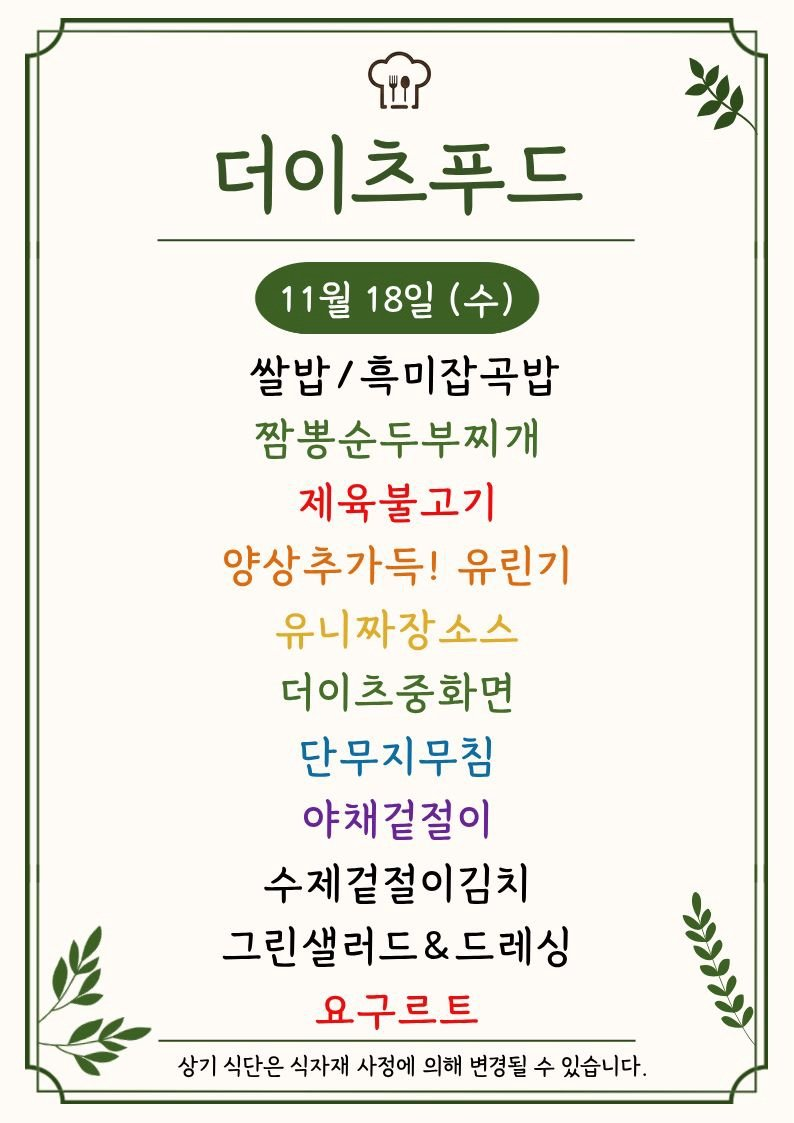
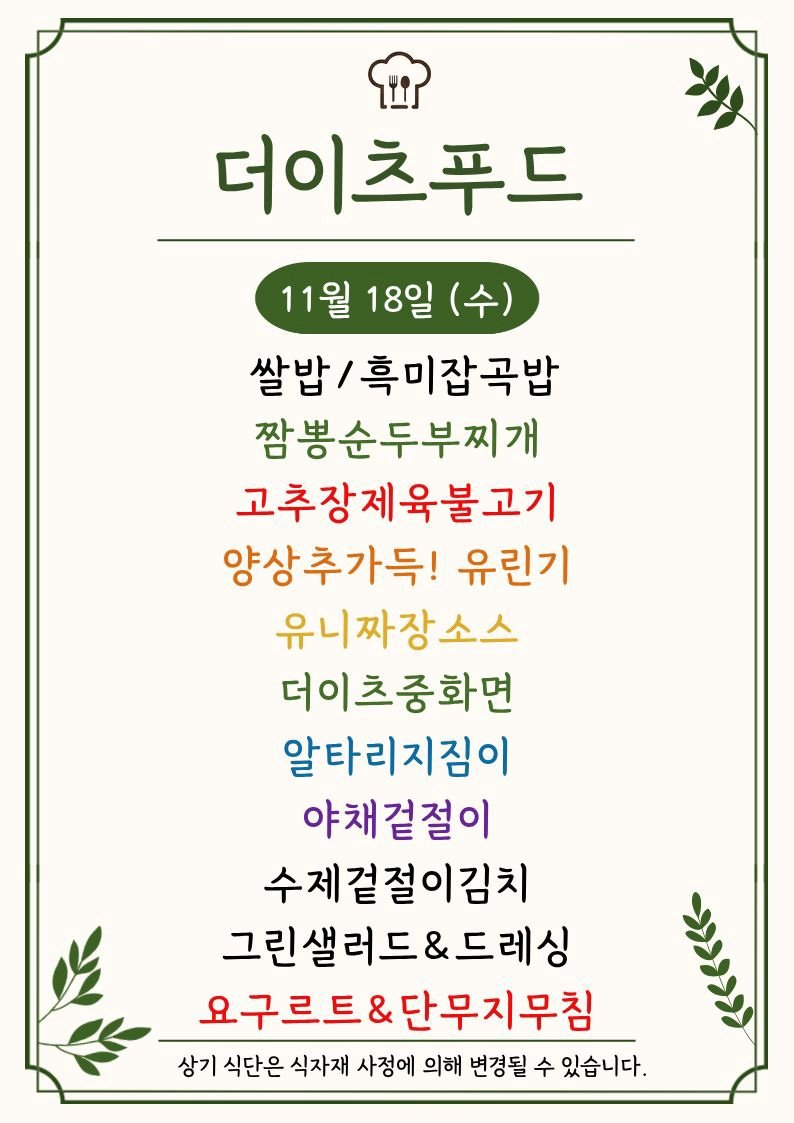
Update menu board assets

Changed region(s): [[0.2418, 0.8727, 0.7557, 0.935], [0.3023, 0.4052, 0.7254, 0.4675], [0.3627, 0.6545, 0.665, 0.7168]]

diff --git a/menu-today/index.html b/menu-today/index.html
@@ -209,7 +209,7 @@
 
     <section class="meta-bar">
       <div class="meta-card"><div class="meta-label">기준 날짜</div><div class="meta-value">2026년 11월 18일 수요일</div></div>
-      <div class="meta-card"><div class="meta-label">최종 가져온 시간</div><div class="meta-value">2026-11-18 10:19:48</div></div>
+      <div class="meta-card"><div class="meta-label">최종 가져온 시간</div><div class="meta-value">2026-11-18 10:40:22</div></div>
       <div class="meta-card"><div class="meta-label">확인 완료</div><div class="meta-value">9개 식당</div></div>
       <div class="meta-card"><div class="meta-label">준비중</div><div class="meta-value">3개 채널</div></div>
     </section>
@@ -255,7 +255,7 @@
             <div class="sub">디폴리스지식산업센터</div>
           </div>
         </div>
-        <div class="menu-inline-image"><img src="./images/dipolis.png" alt="디폴리스 구내식당 식단 이미지"></div><ul><li>순살 치킨까스 &amp; 돈까스 소스</li><li>HA 토마토 스파게티</li><li>구수한 누릉지 / 크루동 크림스프</li><li>코기 손만두찜 &amp; 간장</li><li>팽이 미소 장국</li><li>숙주나물 무침</li><li>양배추 야채 샐러드</li><li>배추겉절이</li><li>= 은 료 &#x27;</li><li>돈육 김치 두루 치기</li><li>출살 치킨까스 &amp; 돈까스 소스</li><li>치즈 토마토 스파게티</li></ul>
+        <div class="menu-inline-image"><img src="./images/dipolis.png" alt="디폴리스 구내식당 식단 이미지"></div><ul><li>순살 치킨까스 &amp; 돈까스 소스</li><li>HA 토마토 스파게티</li><li>구수한 누릉지 / 크루동 크림스프</li><li>코기 손만두찜 &amp; 간장</li><li>팽이 미소 장국</li><li>숙주나물무침</li><li>양배추 야채 샐러드</li><li>배추겉절이</li><li>= 은 료 &#x27;</li><li>돈육 김치 두루 치기</li><li>출살 치킨까스 &amp; 돈까스 소스</li><li>치즈 토마토 스파게티</li></ul>
       </article>
 
       <article class="restaurant-card">

diff --git a/guro-menu/index.html b/guro-menu/index.html
@@ -32,7 +32,7 @@
   </header>
   <section class="meta">
     <div><small>기준 날짜</small><strong>2026년 11월 18일 수요일</strong></div>
-    <div><small>최종 갱신</small><strong>2026-11-18 10:20:00</strong></div>
+    <div><small>최종 갱신</small><strong>2026-11-18 10:40:33</strong></div>
     <div><small>등록 식당</small><strong>5개</strong></div>
   </section>
   <div class="notice">공개 카카오 채널의 메뉴 이미지를 자동 수집하고 OCR로 정리합니다. 텍스트에 오타가 있을 수 있으니 식단 이미지를 함께 확인해 주세요.</div>
@@ -75,8 +75,8 @@
           <a class="channel" href="https://pf.kakao.com/_xeVwxnn" target="_blank" rel="noopener">원본 채널</a>
         </div>
         <img class="menu-image" src="./images/the-eats-food.png" alt="더이츠푸드 식단 이미지" loading="lazy">
-        
-        <ul><li>더이 2 ㄷ</li><li>쌀밥/흑미잡곡밥</li><li>제육불고기</li><li>양상추가득! 유린기</li><li>더이츠중화면</li><li>단무지무침</li><li>야채겉절이</li><li>수제겉절이김치 0</li><li>그린샐러드&amp;드레싱 %</li></ul>
+        <p class="message">최신 공개 식단 이미지의 텍스트입니다. 날짜는 원본 이미지를 확인해 주세요.</p>
+        <ul><li>더 이</li><li>112 18% (수)</li><li>쌀밥/흑미잡곡밥</li><li>고추장제육불고기</li><li>양상추가득! 유린기</li><li>더이츠중화면</li><li>알타리지짐이</li><li>야채겉절이</li><li>수제겉절이김치 0</li><li>그린샐러드&amp;드레싱 %</li><li>요구르트&amp;단무지무침 셔</li></ul>
       </article>
 
       <article class="restaurant-card">
